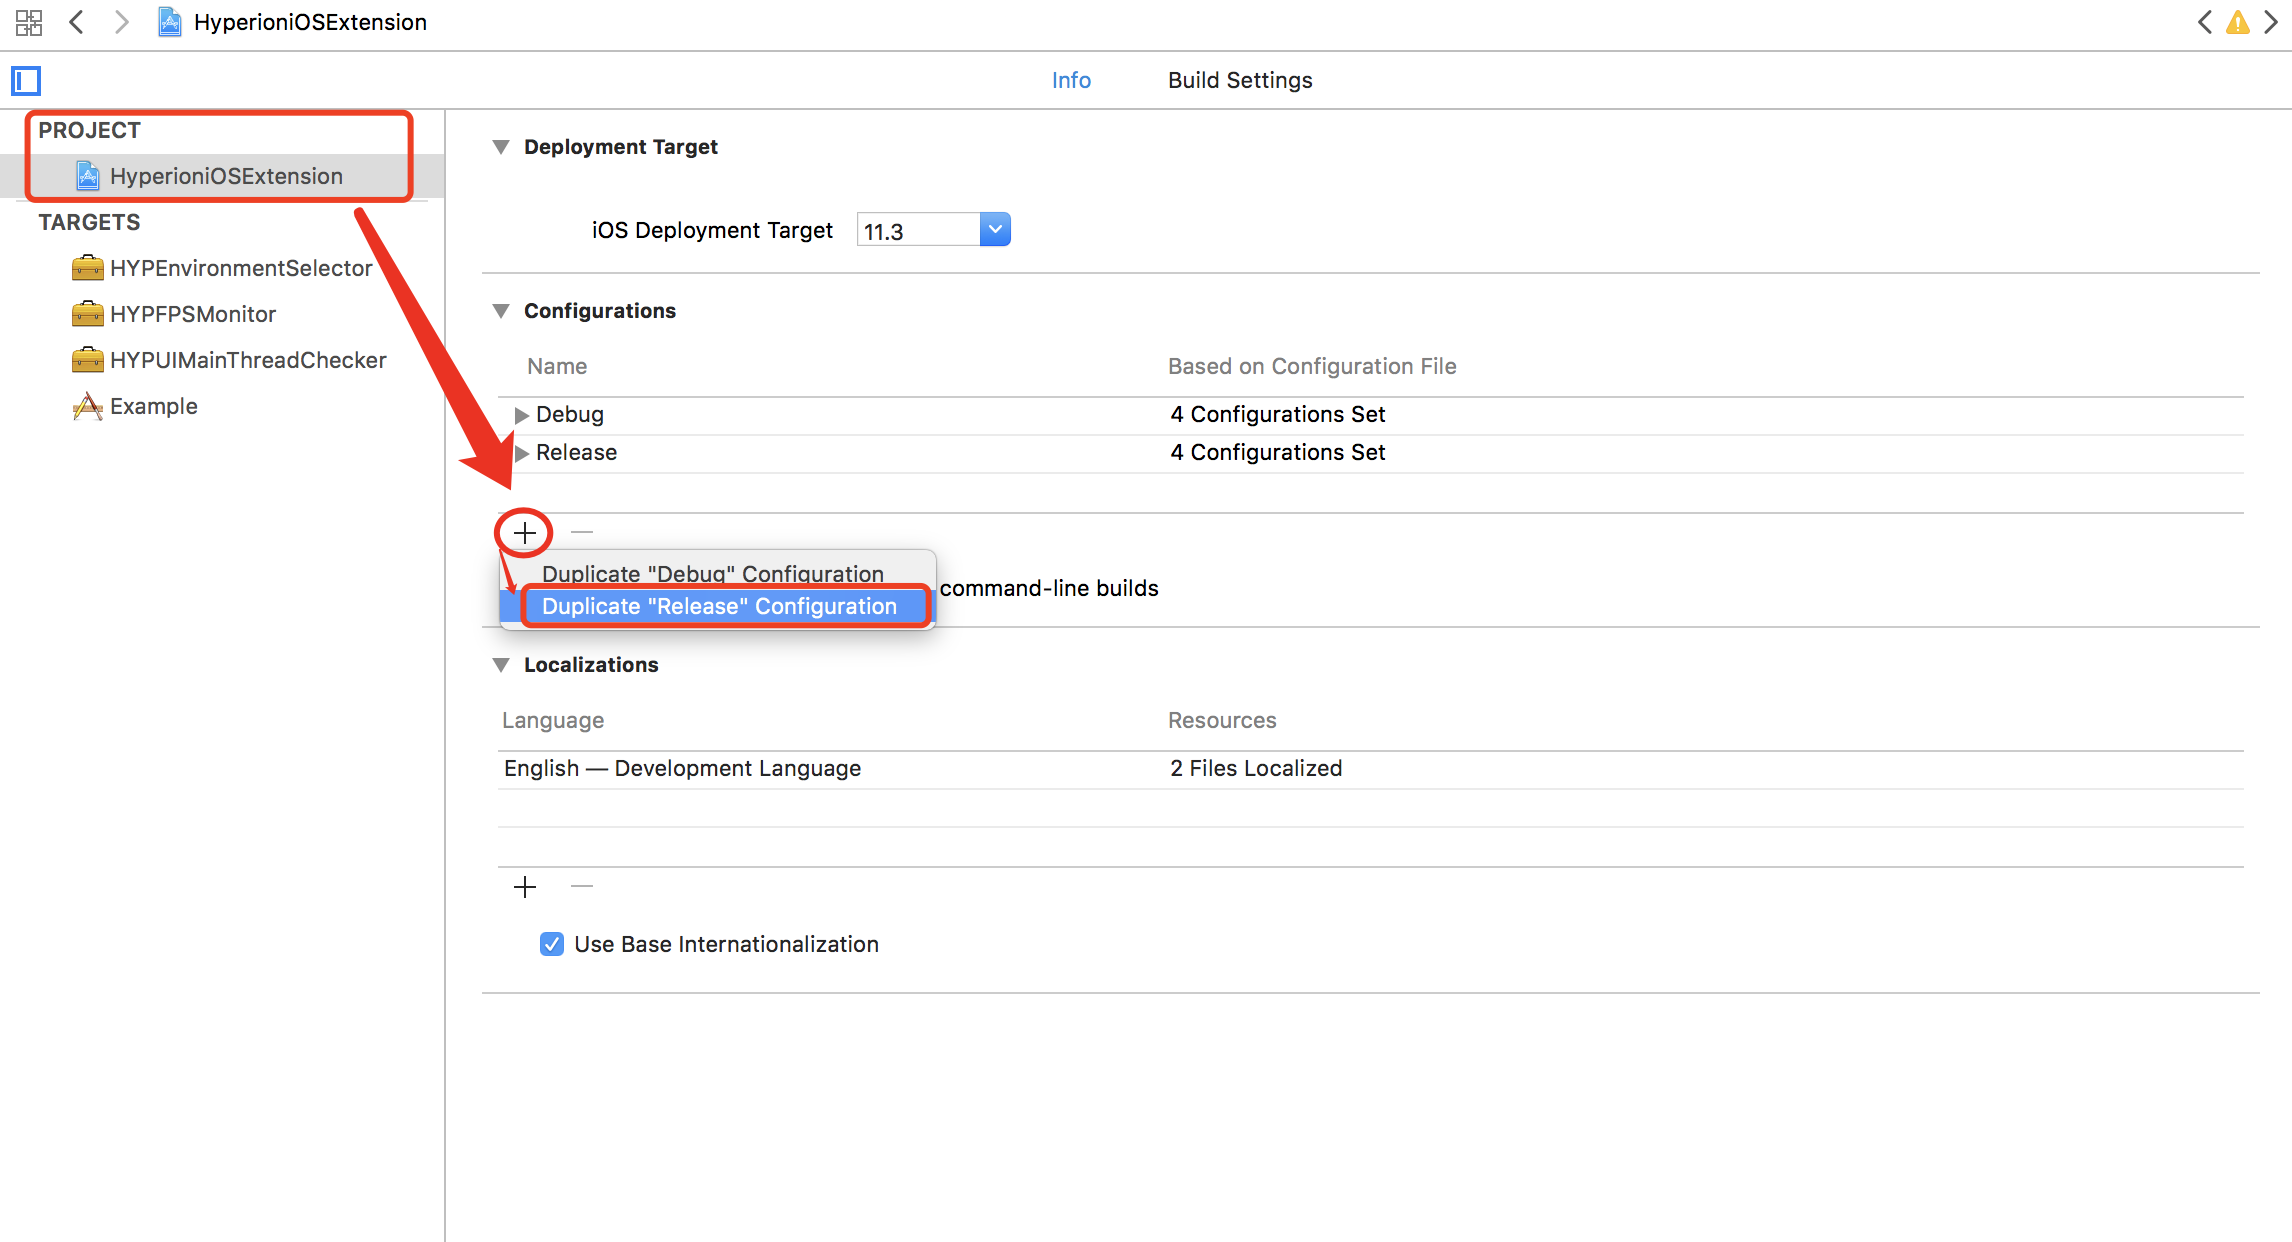
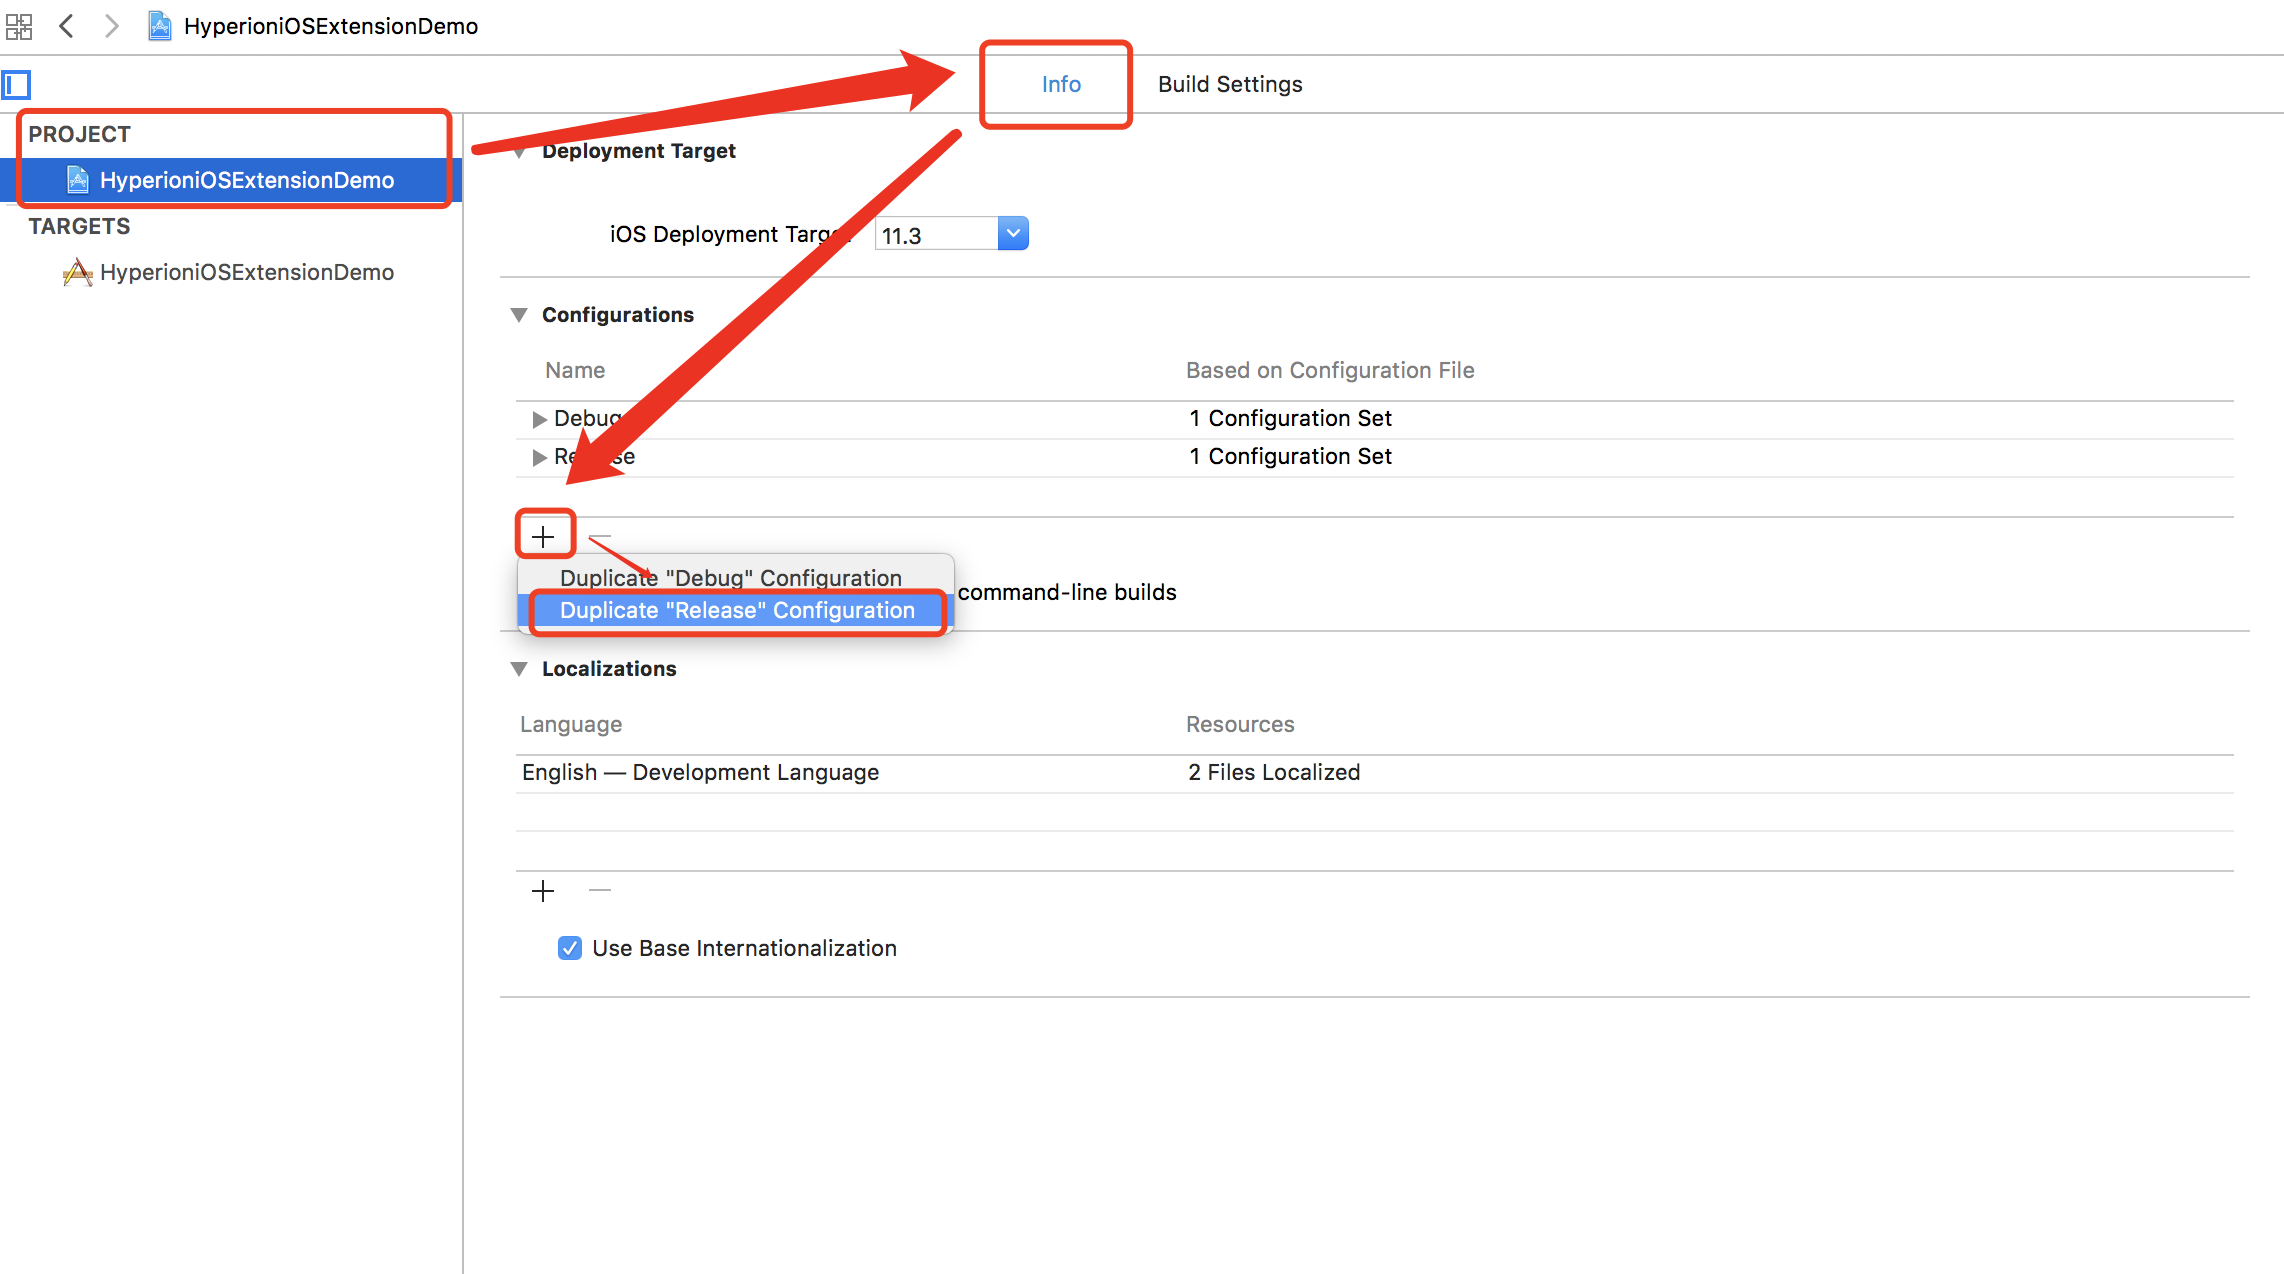
修改文档

Changed region(s): [[0.0, 0.0, 1.0, 0.6425], [0.2176, 0.6731, 0.9637, 0.7037], [0.2176, 0.7343, 0.4041, 0.7955]]

diff --git a/Note.md b/Note.md
@@ -45,23 +45,23 @@ If used in `Swift`: Add `-D DEBUG` in `Build Settings` | `Other Swift Flags`
 
 ### If You Want To Import when Debug Archiving (Archive)
 
-When the package is imported, it is generally a test package import, and the release package is not imported. It is recommended to use the following method to add Configuration:`Debug Package`
+When the package is imported, it is generally a test package import, and the release package is not imported. It is recommended to use the following method to add Configuration:`Test`
 
 #### Setting `Configurations`
 
-1. Duplicate `release` Configuration
+1. Duplicate `Release` or `Debug` Configuration (depends on what configuration you used for the previous test package)
 
 ![setting01](./images/setting01.png)
 
-2. Change the duplicate Configuration name to `Debug Package`
+2. Change the duplicate Configuration name to `Test`
 
 ![setting02](./images/setting02.png)
 
-3. Add `DEBUG=1 CUSTOM_DEBUG=1` to `Project`'s `Preprocesson Macros` in `Debug` and `Debug Package`
+3. Add `DEBUG=1 CUSTOM_DEBUG=1` to `Project`'s `Preprocessor Macros` in `Debug` and `Test`
 
 ![setting03](./images/setting03.png)
 
-4. Add `-D DEBUG -D CUSTOM_DEBUG` to `Project`'s `Other Swift Flags` in `Debug` and `Debug Package`
+4. Add `-D DEBUG -D CUSTOM_DEBUG` to `Project`'s `Other Swift Flags` in `Debug` and `Test`
 
 ![setting04](./images/setting04.png)
 
@@ -75,19 +75,20 @@ When the package is imported, it is generally a test package import, and the rel
 
 ![package02](./images/package02.png)
 
-3. Click `Archive`, If you pack the test package, select `Build Configuration` as `Debug Package`; if you want to package the distribution package to App Store, select `Build Configuration` as `Release`.
+3. Click `Archive`, If you pack the test package, select `Build Configuration` as `Test`; if you want to package the distribution package to App Store, select `Build Configuration` as `Release`.
 
 ![package03](./images/package03.png)
 
-4. change `Podfile` `is_debug` value to `true`(`Debug` or `Debug Package`) or `false`(`Release`), run `pod install`, the subsequent packaging operation is the same as before.
+4. if use `command-line` build project，should select build types
+
+![package04](./images/package04.png)
+
+5. the subsequent packaging operation is the same as before.
 
 #### `Podfile`
 
 ```ruby
-is_debug = true # or false
-if is_debug
-    pod 'HyperioniOSExtension/........'
-end
+pod 'HyperioniOSExtension/......', :configurations => ['Debug', 'Test']
 ```
 
 #### Code Writing Requirements

diff --git a/Note_CN.md b/Note_CN.md
@@ -45,23 +45,23 @@ pod 'HyperioniOSExtension/......', :configurations => ['Debug']
 
 ### 如果想在打包测试包(Archive)时候导入
 
-打包时候导入，一般是测试包导入，发布包中不导入，建议使用下面的方式添加Configuration：`Debug Package`
+打包时候导入，一般是测试包导入，发布包中不导入，建议使用下面的方式添加Configuration：`Test`
 
 #### 设置 `Configurations`
 
-1. 复制`release` Configuration
+1. 复制`Release` or `Debug` Configuration (取决于你之前的测试包使用什么配置)
 
 ![setting01](./images/setting01.png)
 
-2. 将复制的Configuration名称改为 `Debug Package`
+2. 将复制的`Configuration`名称改为 `Test`
 
 ![setting02](./images/setting02.png)
 
-3. 将`Project` 的 `Debug` 和 `Debug Package` 的 `Preprocesson Macros` 添加 `DEBUG=1 CUSTOM_DEBUG=1`
+3. 将`Project` 的 `Debug` 和 `Test` 的 `Preprocessor Macros` 添加 `DEBUG=1 CUSTOM_DEBUG=1`
 
 ![setting03](./images/setting03.png)
 
-4. 将`Project` 的 `Debug` 和 `Debug Package` 的 `Other Swift Flags` 添加 `-D DEBUG -D CUSTOM_DEBUG`
+4. 将`Project` 的 `Debug` 和 `Test` 的 `Other Swift Flags` 添加 `-D DEBUG -D CUSTOM_DEBUG`
 
 ![setting04](./images/setting04.png)
 
@@ -75,19 +75,20 @@ pod 'HyperioniOSExtension/......', :configurations => ['Debug']
 
 ![package02](./images/package02.png)
 
-3. 点击`Archive`，若打包测试包，选择`Build Configuration` 为 `Debug Package`；若打包发布包，选择`Build Configuration` 为 `Release`；
+3. 点击`Archive`，若打包测试包，选择`Build Configuration` 为 `Test`；若打包发布包，选择`Build Configuration` 为 `Release`；
 
 ![package03](./images/package03.png)
 
-4. 修改`Podfile`中`is_debug`的值为`true`(`Debug` 或 `Debug Package`) 或 `false`(`Release`), 运行`pod install`, 后续打包操作与之前相同。
+4. 如果使用`command-line` build 项目，需要选择具体build方式
+
+![package04](./images/package04.png)
+
+5. 后续打包操作与之前相同。
 
 #### `Podfile`
 
 ```ruby
-is_debug = true # or false
-if is_debug
-    pod 'HyperioniOSExtension/........'
-end
+pod 'HyperioniOSExtension/......', :configurations => ['Debug', 'Test']
 ```
 
 #### 代码编写要求

diff --git a/README.md b/README.md
@@ -29,18 +29,7 @@ HyperioniOSExtension
 in `Podfile`:
 
 ```ruby
-# Automatic control, but the package app will not be imported
 pod 'HyperioniOSExtension/HYPEnvironmentSelector', :configurations => ['Debug']
-```
-
-or
-
-```ruby
-# Manual control, manually control whether the package app is imported
-is_debug = true # false
-if is_debug
-    pod 'HyperioniOSExtension/HYPEnvironmentSelector'
-end
 ```
 
 #### Use
@@ -122,18 +111,7 @@ class MyEnvItem: NSObject, HYPEnvironmentItemProtocol {
 in `Podfile`:
 
 ```ruby
-# Automatic control, but the package app will not be imported
 pod 'HyperioniOSExtension/HYPFPSMonitor', :configurations => ['Debug']
-```
-
-or
-
-```ruby
-# Manual control, manually control whether the package app is imported
-is_debug = true # false
-if is_debug
-    pod 'HyperioniOSExtension/HYPFPSMonitor'
-end
 ```
 
 #### Use
@@ -159,18 +137,7 @@ HYPFPSMonitorPlugin.isCanTouchFPSView = YES/NO;
 in `Podfile`:
 
 ```ruby
-# Automatic control, but the package app will not be imported
 pod 'HyperioniOSExtension/HYPUIMainThreadChecker', :configurations => ['Debug']
-```
-
-or
-
-```ruby
-# Manual control, manually control whether the package app is imported
-is_debug = true # false
-if is_debug
-    pod 'HyperioniOSExtension/HYPUIMainThreadChecker'
-end
 ```
 
 #### Use

diff --git a/README_CN.md b/README_CN.md
@@ -27,18 +27,7 @@ HyperioniOSExtension
 #### Cocoapods导入
 
 ```ruby
-# 自动控制，但是打包不会导入
 pod 'HyperioniOSExtension/HYPEnvironmentSelector', :configurations => ['Debug']
-```
-
-或
-
-```ruby
-# 手动控制，手动控制打包是否导入
-is_debug = true # false
-if is_debug
-    pod 'HyperioniOSExtension/HYPEnvironmentSelector'
-end
 ```
 
 #### 使用
@@ -118,18 +107,7 @@ class MyEnvItem: NSObject, HYPEnvironmentItemProtocol {
 #### Cocoapods导入
 
 ```ruby
-# 自动控制，但是打包不会导入
 pod 'HyperioniOSExtension/HYPFPSMonitor', :configurations => ['Debug']
-```
-
-或
-
-```ruby
-# 手动控制，手动控制打包是否导入
-is_debug = true # false
-if is_debug
-    pod 'HyperioniOSExtension/HYPFPSMonitor'
-end
 ```
 
 #### 使用
@@ -153,18 +131,7 @@ HYPFPSMonitorPlugin.isCanTouchFPSView = YES/NO;
 #### Cocoapods导入
 
 ```ruby
-# 自动控制，但是打包不会导入
 pod 'HyperioniOSExtension/HYPUIMainThreadChecker', :configurations => ['Debug']
-```
-
-或
-
-```ruby
-# 手动控制，手动控制打包是否导入
-is_debug = true # false
-if is_debug
-    pod 'HyperioniOSExtension/HYPUIMainThreadChecker'
-end
 ```
 
 #### 使用
